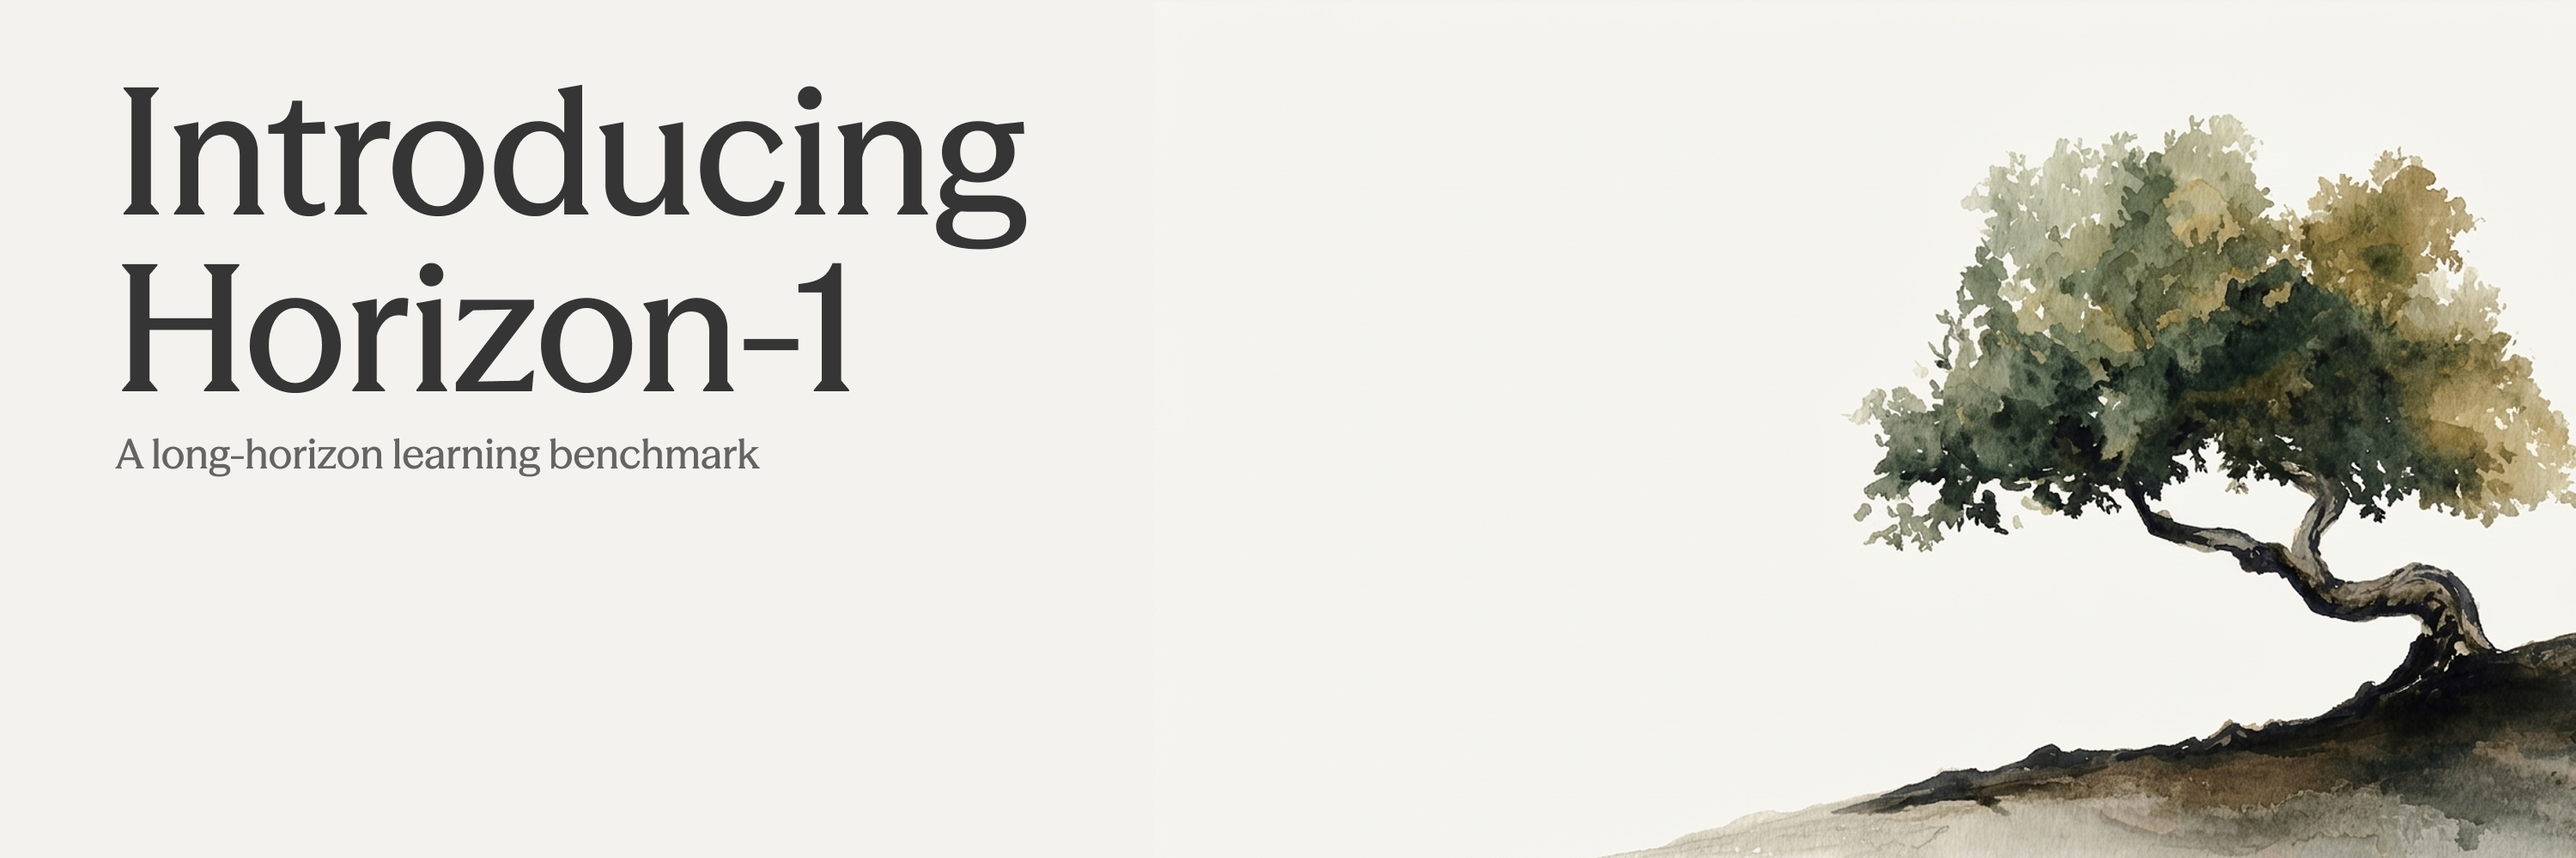
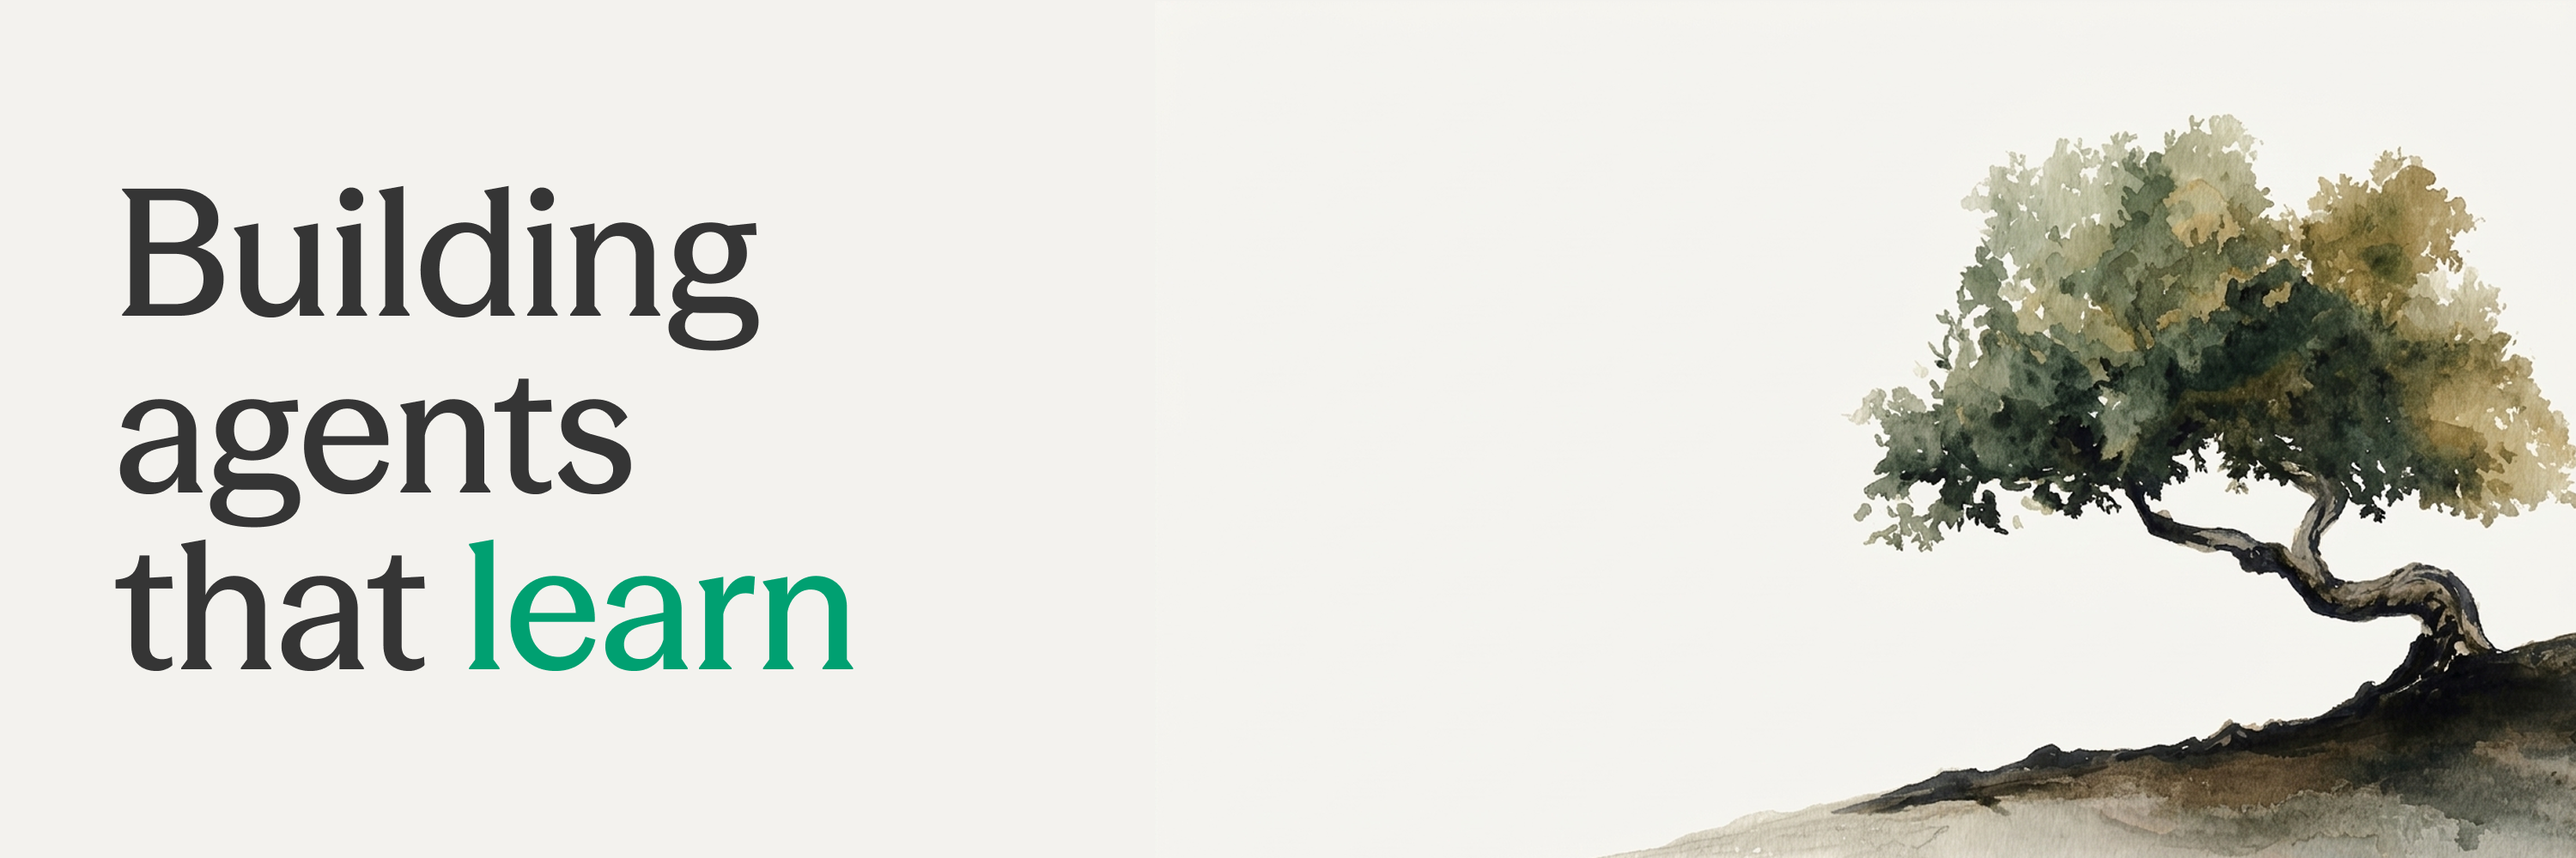
Revert "fix(all): all"
This reverts commit 0b5be87eab680f906b8f6fef1064f1baa6a82993.

Changed region(s): [[0.031, 0.093, 0.403, 0.806]]

diff --git a/src/components/WhitePaper.tsx b/src/components/WhitePaper.tsx
@@ -42,11 +42,7 @@ export function ResearchArticle({
 
       {/* Title Block */}
       <header className="mb-12">
-        <h1
-          className={`text-3xl sm:text-4xl lg:text-5xl font-bold text-neutral-900 dark:text-neutral-100 mb-4 leading-tight${
-            image ? " md:hidden" : ""
-          }`}
-        >
+        <h1 className="text-3xl sm:text-4xl lg:text-5xl font-bold text-neutral-900 dark:text-neutral-100 mb-4 leading-tight">
           {title}
         </h1>
         <p className="mb-5 text-base text-neutral-600/80 dark:text-neutral-400/80 leading-normal tracking-wide">
